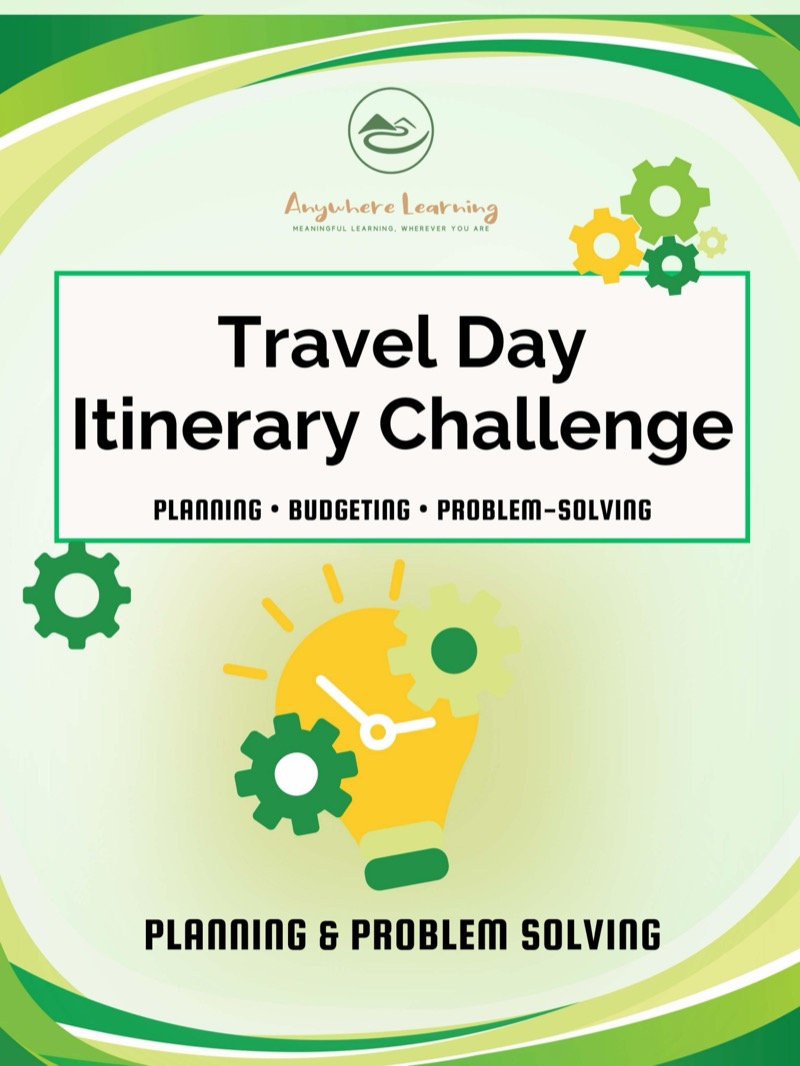
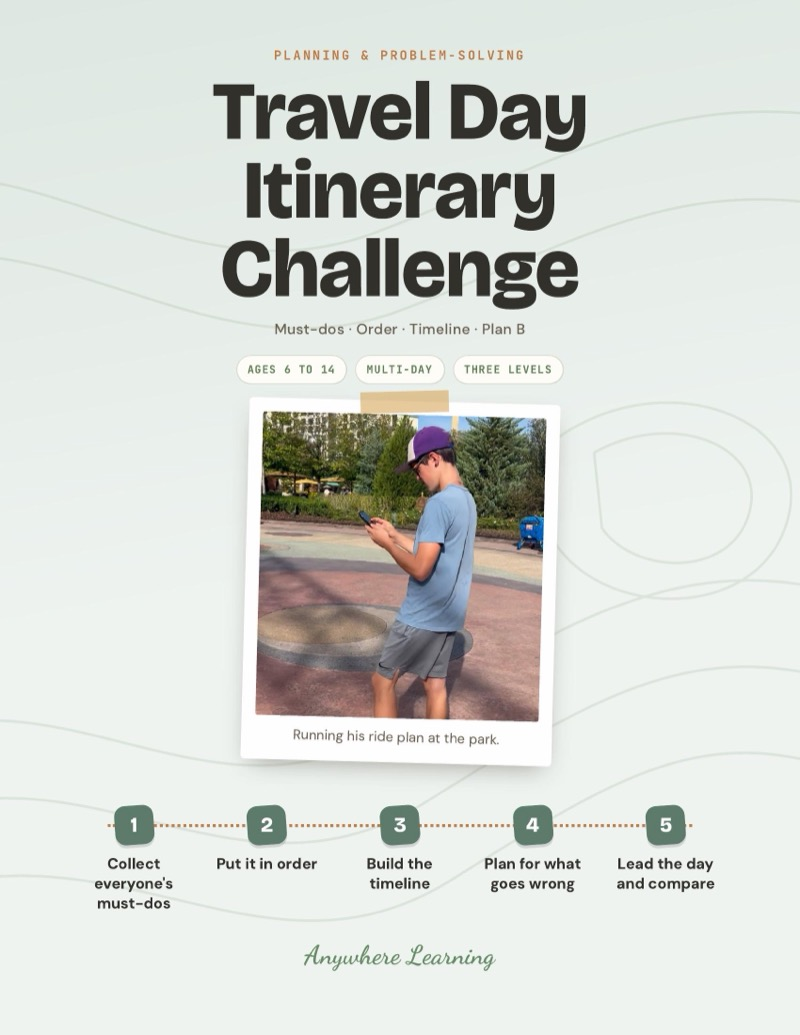
Travel Day Itinerary Challenge: redesigned guide, Universal ride-plan story + photo, new listing, critical-thinking tag

diff --git a/scripts/seed.ts b/scripts/seed.ts
@@ -56,7 +56,7 @@ async function seed() {
     { name: 'Problem-Solver Studio', slug: 'problem-solver', description: 'Pick a real problem, brainstorm, prototype with household materials, test, and improve.', shortDescription: 'Design thinking for real problems.', priceCents: 599, compareAtPriceCents: null, stripePriceId: 'price_1TFcTcAMzOBftCntgT52Nlxh', blobUrl: '', imageUrl: '/products/problem-solver.jpg', category: 'planning-problem-solving', isBundle: false, bundleProductIds: null, activityCount: null, ageRange: 'Ages 9\u201314', sortOrder: 141, active: true },
     { name: 'Smart Shopper Lab', slug: 'smart-shopper', description: 'Your child makes a real purchase decision, with their own money or for something the family needs. They compare two options, build their own rubric, see both in person if they can, work out cost per use and hidden costs, and spot the marketing tricks. Then they wait two weeks before buying. Real-world STEM maths and media literacy, and the habit of thinking before spending.', shortDescription: 'Real-world maths (STEM) for kids ages 9-14: compare two real options, work out cost per use, spot the marketing, then wait before buying.', priceCents: 599, compareAtPriceCents: null, stripePriceId: 'price_1TFcTdAMzOBftCntoJjP3hy7', blobUrl: '', imageUrl: '/products/smart-shopper.jpg', category: 'real-world-math', isBundle: false, bundleProductIds: null, activityCount: null, ageRange: 'Ages 9\u201314', sortOrder: 112, active: true },
     { name: 'Time & Energy Planner', slug: 'time-energy-planner', description: 'Map energy patterns, match tasks to brain power, build a real plan, test it, and fix what doesn\u2019t work.', shortDescription: 'Self-management that actually sticks.', priceCents: 599, compareAtPriceCents: null, stripePriceId: 'price_1TFcTdAMzOBftCntcxl1ggJF', blobUrl: '', imageUrl: '/products/time-energy-planner.jpg', category: 'planning-problem-solving', isBundle: false, bundleProductIds: null, activityCount: null, ageRange: 'Ages 9\u201314', sortOrder: 142, active: true },
-    { name: 'Travel Day Itinerary Challenge', slug: 'travel-day', description: 'Plan a real day trip: destination, budget, itinerary, curveball, and backup plan.', shortDescription: 'Plan a real day trip from scratch.', priceCents: 599, compareAtPriceCents: null, stripePriceId: 'price_1TFcTeAMzOBftCntm89oK6q4', blobUrl: '', imageUrl: '/products/travel-day.jpg', category: 'planning-problem-solving', isBundle: false, bundleProductIds: null, activityCount: null, ageRange: 'Ages 9\u201314', sortOrder: 143, active: true },
+    { name: 'Travel Day Itinerary Challenge', slug: 'travel-day', description: 'Your child plans a real day out, like a theme park, a zoo, a city or a travel day. They collect a must-do from each person, put the stops in the order that wastes the least time, build a timeline with buffers and a budget, and write a Plan B for what could go wrong. Then they lead the day and compare the plan with what really happened.', shortDescription: 'Planning activity for kids ages 6-14: plan a real day out with must-dos, a timeline, a budget and a Plan B.', priceCents: 599, compareAtPriceCents: null, stripePriceId: 'price_1TFcTeAMzOBftCntm89oK6q4', blobUrl: '', imageUrl: '/products/travel-day.jpg', category: 'planning-problem-solving', isBundle: false, bundleProductIds: null, activityCount: null, ageRange: 'Ages 6\u201314', sortOrder: 143, active: true },
     { name: 'Write It Like a Pro', slug: 'write-like-a-pro', description: 'Pick a writing style, write for a real audience, edit, and revise. Six formats, one finished piece.', shortDescription: 'Real writing for real audiences.', priceCents: 599, compareAtPriceCents: null, stripePriceId: 'price_1TFcTeAMzOBftCnti098zzDn', blobUrl: '', imageUrl: '/products/write-like-a-pro.jpg', category: 'communication-writing', isBundle: false, bundleProductIds: null, activityCount: null, ageRange: 'Ages 9\u201314', sortOrder: 120, active: true },
 
 

diff --git a/lib/product-descriptions.ts b/lib/product-descriptions.ts
@@ -1152,23 +1152,24 @@ export const productDescriptions: Record<string, ProductDescription> = {
   },
   'travel-day': {
     opening:
-      'Your child plans a real day trip from scratch: picks the destination, sets priorities, builds a time-and-money budget, creates a full itinerary, handles a curveball, and makes a backup plan. Planning, budgeting, and problem-solving all in one project that feels like an adventure.',
+      'Your child plans a real day out, like a theme park, a zoo, a city or a travel day. They collect a must-do from each person, put the stops in the order that wastes the least time, build a timeline with buffers and a budget, and write a Plan B for what could go wrong. Then they lead the day and compare the plan with what really happened.',
     whatsIncluded: [
-      'Destination research with priority setting',
-      'Time-and-money budget planning',
-      'Full itinerary building with realistic timing',
-      'Curveball step that forces real-time problem-solving',
-      'Backup plan and Version 2 revision',
+      '5 steps from must-dos to leading the day',
+      'Order rules that stop the day doubling back',
+      'Time math with buffers, slack and a budget',
+      'Plan B swaps for rain, closures and tired kids',
+      'A Plan vs real table in a Day Planner Toolkit',
     ],
-    skillTags: ['Planning', 'Budgeting', 'Problem-Solving'],
+    skillTags: ['Planning', 'Time Management', 'Budgeting', 'Problem-Solving', 'Flexibility'],
     insideTheLearning: {
       lead:
-        'Your child plans an entire day out: researches it, sets the priorities, builds an itinerary with realistic timings, and holds it inside a time and money budget. Then a curveball lands mid-day and the plan has to bend without breaking.',
+        'Your child learns that a good day out is not the one with the most in it. It is the one in the right order, with room for things to go wrong. The same list in a different order can save an hour, and a Plan B turns a change into a decision instead of a meltdown.',
       skills: [
-        { skill: 'Planning', where: 'Researching the options and building an itinerary with timings that actually work' },
-        { skill: 'Decision-Making', where: 'Setting priorities and budgeting the time and the money together' },
-        { skill: 'Problem-Solving', where: 'Handling the curveball in real time and reworking the rest of the day' },
-        { skill: 'Communication', where: 'Making the case for their plan and coordinating everyone through it' },
+        { skill: 'Planning', where: 'Collecting must-dos, fixed times and prices before the day' },
+        { skill: 'Critical Thinking', where: 'Finding the order that saves the most time on the map' },
+        { skill: 'Math', where: 'Elapsed time, buffers, slack and adding up the costs' },
+        { skill: 'Communication', where: 'Hearing what everyone wants and leading the family through the day' },
+        { skill: 'Self-Management', where: 'Staying calm and switching to Plan B when something changes' },
       ],
     },
     format: 'Project Guide',

diff --git a/lib/fallback-products.ts b/lib/fallback-products.ts
@@ -762,20 +762,20 @@ export const fallbackProducts: FallbackProduct[] = [
     name: "Travel Day Itinerary Challenge",
     slug: "travel-day",
     description:
-      "Your child plans a real day trip from scratch: picks the destination, sets priorities, builds a time-and-money budget, creates a full itinerary, handles a curveball, and makes a backup plan. Planning, budgeting, and problem-solving wrapped in an adventure.",
+      "Your child plans a real day out, like a theme park, a zoo, a city or a travel day. They collect a must-do from each person, put the stops in the order that wastes the least time, build a timeline with buffers and a budget, and write a Plan B for what could go wrong. Then they lead the day and compare the plan with what really happened.",
     shortDescription:
-      "Planning activity for kids ages 9-14: plan a real day trip with budget, itinerary, curveball, and backup plan.",
+      "Planning activity for kids ages 6-14: plan a real day out with must-dos, a timeline, a budget and a Plan B.",
     priceCents: 599,
     compareAtPriceCents: null,
     stripePriceId: "price_1TLrppAkIBECpwGmSIyPtK3g",
     blobUrl: "",
     imageUrl: "/products/travel-day.jpg",
-    previewFile: "Preview Planning & Problem-Solving Travel Day Itinerary Challenge.pdf",
+    previewFile: "Preview Planning & Problem-Solving Travel Day Itinerary Challenge v3.pdf",
     category: "planning-problem-solving",
     isBundle: false,
     bundleProductIds: null,
     activityCount: null,
-    ageRange: "Ages 9–14",
+    ageRange: "Ages 6–14",
     sortOrder: 143,
     active: true,
     createdAt: new Date("2025-04-01"),

diff --git a/lib/activity-blob-urls.ts b/lib/activity-blob-urls.ts
@@ -131,7 +131,7 @@ export const ACTIVITY_BLOB_URLS: Record<string, string> = {
   "trade-it-up": "https://xkj3tzlgu6ylgllk.public.blob.vercel-storage.com/Entrepreneurship%20-%20Trade%20It%20Up%20v2.pdf",
   "trail-guide-creator": "https://xkj3tzlgu6ylgllk.public.blob.vercel-storage.com/Communication%20%26%20Writing%20-%20Trail%20Guide%20Creator%20v6.pdf",
   "transport-navigation-challenge": "https://xkj3tzlgu6ylgllk.public.blob.vercel-storage.com/Worldschooling%20-%20Transport%20%26%20Navigation%20Challenge%20v2.pdf",
-  "travel-day": "https://xkj3tzlgu6ylgllk.public.blob.vercel-storage.com/Planning%20%26%20Problem-Solving%20Travel%20Day%20Itinerary%20Challenge%20v2.pdf",
+  "travel-day": "https://xkj3tzlgu6ylgllk.public.blob.vercel-storage.com/Planning%20%26%20Problem-Solving%20Travel%20Day%20Itinerary%20Challenge%20v3.pdf",
   "travel-reflection-postcards": "https://xkj3tzlgu6ylgllk.public.blob.vercel-storage.com/Worldschooling%20-%20Travel%20Reflection%20%26%20Postcards%20v2.pdf",
   "two-minute-story": "https://xkj3tzlgu6ylgllk.public.blob.vercel-storage.com/Communication%20%26%20Writing%20-%20The%20Two%20Minute%20Story%20v6.pdf",
   "what-if-scenario-lab": "https://xkj3tzlgu6ylgllk.public.blob.vercel-storage.com/Planning%20%26%20Problem-Solving%20The%20What%20If%20Scenario%20Lab%20v2.pdf",

diff --git a/lib/roadmap.ts b/lib/roadmap.ts
@@ -452,6 +452,7 @@ const SUPPLEMENTAL_TERRITORY_TAGS: Record<string, string[]> = {
   'write-like-a-pro': ['communication'],
   'emergency-ready': ['critical-thinking'],
   'everyday-redesign': ['life-skills'],
+  'travel-day': ['critical-thinking'],
 };
 
 /**
